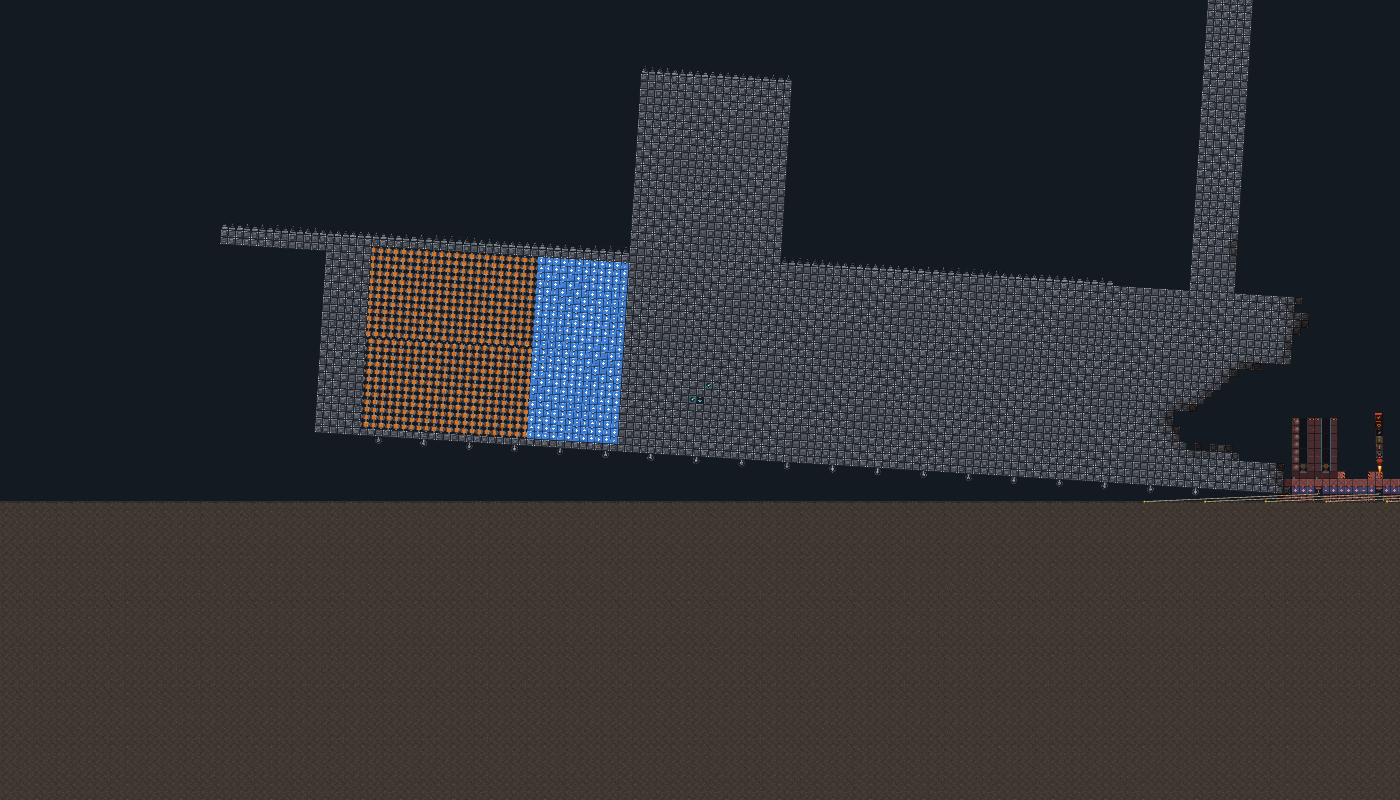
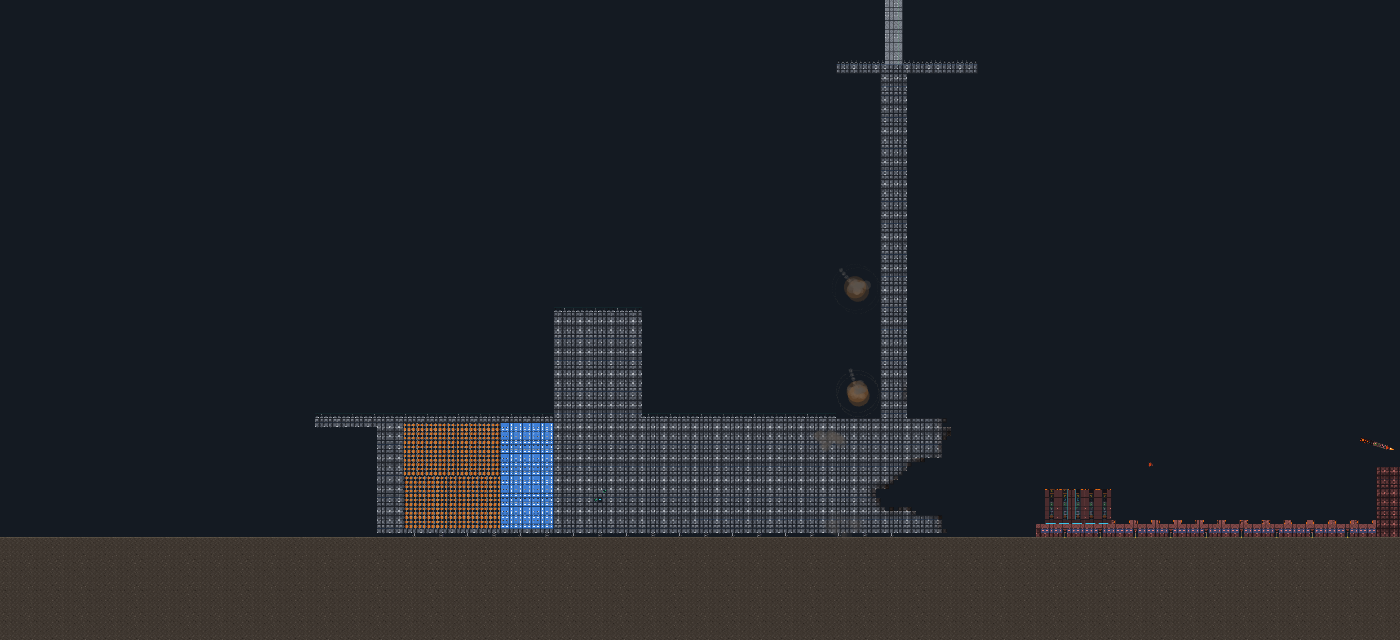
README screenshots retaken wider (Logan: too zoomed in): the whole base with its whole volley, the whole winner with its mast

diff --git a/README.md b/README.md
@@ -17,9 +17,9 @@ This was a fun project I made with Claude in my spare time.
 - **Robots that build robots.** A fabricator bay builds a copy of another blueprint from the robot's energy and lets it go.
 - **Titans.** Eight huge robots that run themselves (800 to 5200 parts each), built for a round robin tournament. The rules, both result tables, and notes from watching the fights are in `docs/plans/titans-tournament.md`.
 
-![A 20 tonne machine riding up onto a ground base](docs/images/titan-ram.png)
+![A 20 tonne machine with a tall mast driving at a ground base](docs/images/titan-ram.png)
 
-*The tournament winner, a 5165 part machine on wheels, arriving at a base that has roped itself to the ground.*
+*The tournament winner, a 20 tonne machine of 5165 parts, closing on that base at 55 m/s while the darts land on its nose. Its mast carries a gun deck 110 m up.*
 
 ![The builder with a twelve turret drone open](docs/images/builder.png)
 
